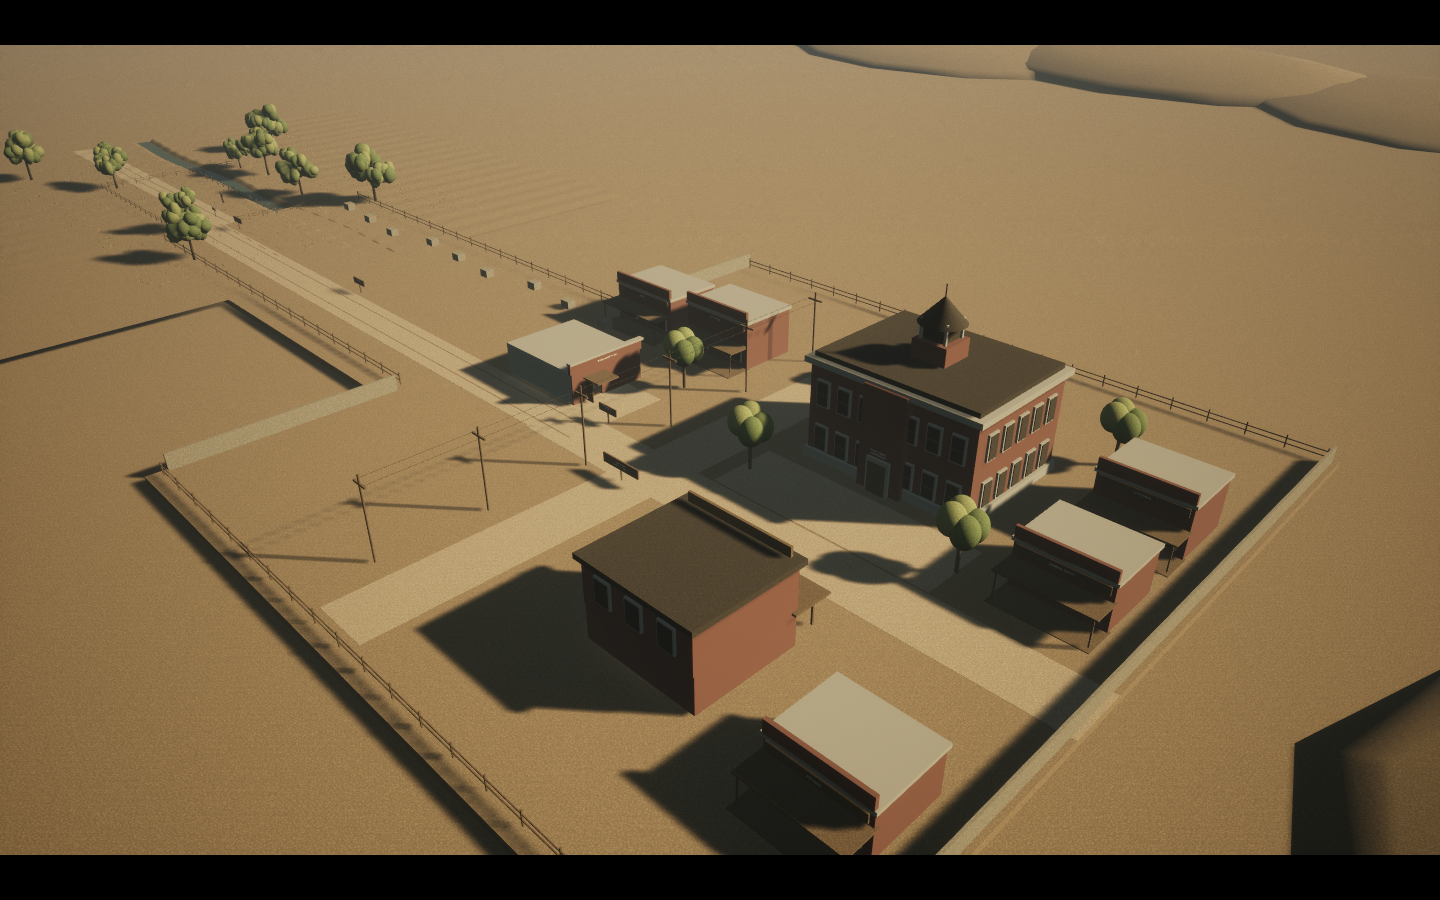
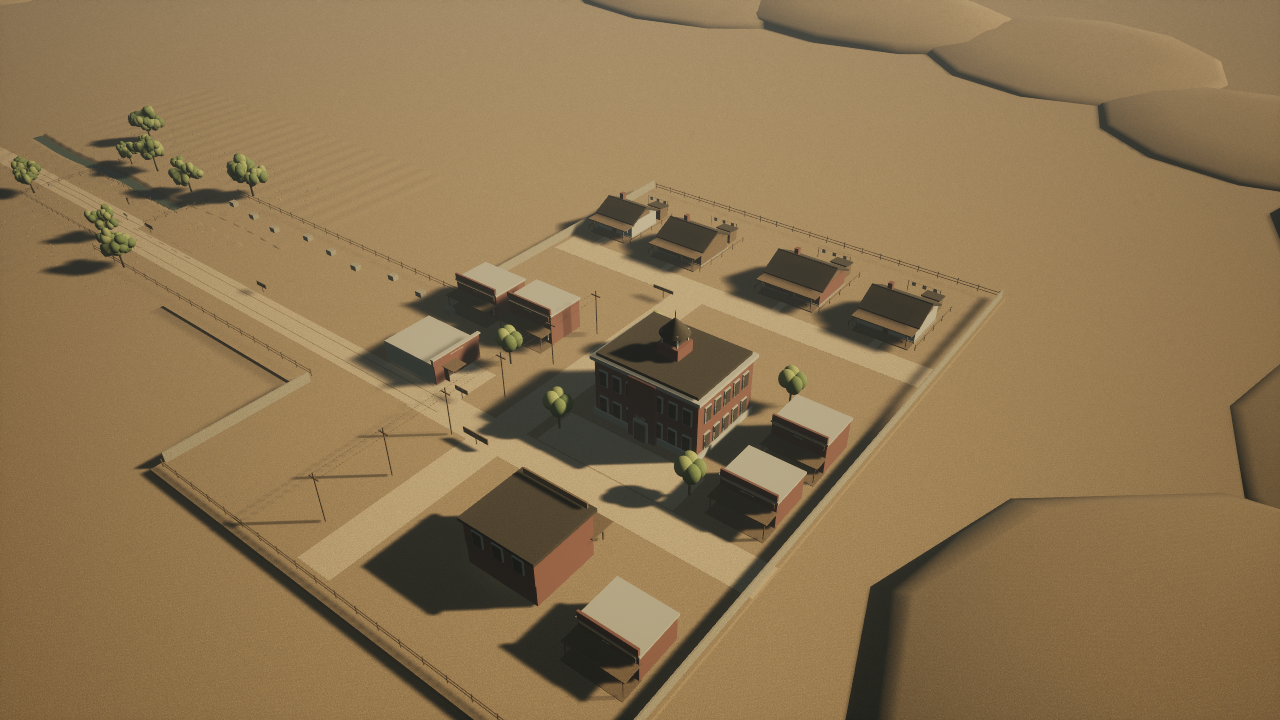
Expand Pecos Bend with a residential lane and four homes

diff --git a/Source/CountyLine/World/CLPecosBend.cpp b/Source/CountyLine/World/CLPecosBend.cpp
@@ -46,10 +46,62 @@ void ACLPecosBend::Store(const FString& Name,const FString& Title,FVector P,floa
     Shape(Name+TEXT("Boardwalk"),P+FVector(0,-490,2),FVector(Width+30,340,8),TEXT("Timber"));
 }
 
+// Small closed homes face the residential lane; porches and yards are walkable.
+void ACLPecosBend::Home(const FString& Name,FVector P,float W,float D,const TCHAR* Material)
+{
+    Shape(Name+TEXT("Foundation"),P+FVector(0,0,18),FVector(W+25,D+25,36),TEXT("Rock"));
+    Shape(Name+TEXT("Walls"),P+FVector(0,0,180),FVector(W,D,300),Material);
+    const float Rise=D*.24f;
+    // Deep roof panels overlap at the ridge. Dark attic walls close the gable ends.
+    Shape(Name+TEXT("Attic"),P+FVector(0,0,330+Rise*.22f),FVector(W-20,D*.50f,Rise*.44f),TEXT("Timber"));
+    for(int32 Side:{-1,1})
+    {
+        auto* Roof=Shape(Name+FString::Printf(TEXT("Roof%d"),Side),P+FVector(0,Side*D*.25f,330+Rise*.5f),FVector(W+100,D*.60f,35),TEXT("Iron"));
+        Roof->SetRelativeRotation(FRotator(0,0,Side*26.f));
+        const FVector Window=P+FVector(Side*W*.29f,-D/2-12,185);
+        Shape(Name+FString::Printf(TEXT("WindowFrame%d"),Side),Window,FVector(155,20,165),TEXT("Plaster"));
+        Shape(Name+FString::Printf(TEXT("WindowGlass%d"),Side),Window+FVector(0,-15,0),FVector(125,8,135),TEXT("Iron"));
+        Shape(Name+FString::Printf(TEXT("WindowBar%d"),Side),Window+FVector(0,-21,0),FVector(7,6,135),TEXT("Timber"),TEXT("Cube"),false);
+        Shape(Name+FString::Printf(TEXT("PorchPost%d"),Side),P+FVector(Side*(W/2-55),-D/2-210,140),FVector(14,14,280),TEXT("Timber"));
+        // Yard side boundaries stop before the public lane.
+        Shape(Name+FString::Printf(TEXT("YardRail%d"),Side),P+FVector(Side*(W/2+100),120,80),FVector(10,D+650,14),TEXT("Timber"));
+        for(int32 I=0;I<5;++I)
+            Shape(Name+FString::Printf(TEXT("YardPost%d_%d"),Side,I),P+FVector(Side*(W/2+100),-D/2-180+I*(D+600)/4,55),FVector(12,12,110),TEXT("Timber"));
+    }
+    Shape(Name+TEXT("DoorFrame"),P+FVector(0,-D/2-10,145),FVector(122,20,245),TEXT("Plaster"));
+    Shape(Name+TEXT("Door"),P+FVector(0,-D/2-24,137),FVector(100,10,222),TEXT("Timber"));
+    Shape(Name+TEXT("Porch"),P+FVector(0,-D/2-125,10),FVector(W,250,20),TEXT("Timber"));
+    Shape(Name+TEXT("PorchRoof"),P+FVector(0,-D/2-120,285),FVector(W+70,310,20),TEXT("Timber"));
+    Shape(Name+TEXT("Chimney"),P+FVector(W*.28f,D*.20f,410),FVector(80,90,390),TEXT("Brick"));
+    Shape(Name+TEXT("FrontPath"),P+FVector(0,-D/2-425,1),FVector(140,600,3),TEXT("RoadDust"),TEXT("Cube"),false);
+    Shape(Name+TEXT("Bench"),P+FVector(-W*.28f,-D/2-105,52),FVector(170,55,18),TEXT("Timber"));
+    for(int32 Side:{-1,1}) Shape(Name+FString::Printf(TEXT("BenchLeg%d"),Side),P+FVector(-W*.28f+Side*65,-D/2-105,25),FVector(14,45,50),TEXT("Timber"));
+    Shape(Name+TEXT("Shed"),P+FVector(-W*.28f,D/2+330,115),FVector(290,250,230),TEXT("Timber"));
+    auto* ShedRoof=Shape(Name+TEXT("ShedRoof"),P+FVector(-W*.28f,D/2+330,250),FVector(330,300,25),TEXT("Iron"));
+    ShedRoof->SetRelativeRotation(FRotator(0,0,8));
+    Shape(Name+TEXT("ShedDoor"),P+FVector(-W*.28f,D/2+199,105),FVector(95,8,200),TEXT("Iron"));
+    Shape(Name+TEXT("GardenBed"),P+FVector(W*.25f,D/2+290,5),FVector(270,260,10),TEXT("Soil"));
+    for(int32 Row=0;Row<3;++Row) for(int32 Plant=0;Plant<4;++Plant)
+        Shape(Name+FString::Printf(TEXT("Garden%d_%d"),Row,Plant),P+FVector(W*.25f-90+Row*90,D/2+200+Plant*60,24),FVector(28,28,35),TEXT("Leaf"),TEXT("Sphere"),false);
+    for(int32 Side:{-1,1}) Shape(Name+FString::Printf(TEXT("ClothesPost%d"),Side),P+FVector(Side*W*.3f,D/2+650,110),FVector(10,10,220),TEXT("Timber"));
+    Shape(Name+TEXT("ClothesLine"),P+FVector(0,D/2+650,205),FVector(W*.6f,2,2),TEXT("Iron"),TEXT("Cube"),false);
+    for(int32 I=0;I<3;++I) Shape(Name+FString::Printf(TEXT("Laundry%d"),I),P+FVector(-W*.2f+I*W*.2f,D/2+650,168),FVector(70,3,72),TEXT("Plaster"),TEXT("Cube"),false);
+}
+
 ACLPecosBend::ACLPecosBend()
 {
     RootComponent=CreateDefaultSubobject<USceneComponent>(TEXT("PecosBend"));
     Shape(TEXT("TownGround"),FVector(-2800,-100,-42),FVector(7800,8200,80),TEXT("Soil"));
+    Shape(TEXT("ResidentialGround"),FVector(-2800,5650,-42),FVector(7800,3700,80),TEXT("Soil"));
+    Shape(TEXT("ResidentialLane"),FVector(-2800,4300,.2),FVector(7500,600,2),TEXT("RoadDust"),TEXT("Cube"),false);
+    Shape(TEXT("CourtNorthExtension"),FVector(-2200,4100,.2),FVector(620,950,2),TEXT("RoadDust"),TEXT("Cube"),false);
+    Home(TEXT("HomeWest"),FVector(-5500,5550,0),1000,900,TEXT("Plaster"));
+    Home(TEXT("HomeBrick"),FVector(-3650,5650,0),1100,950,TEXT("Brick"));
+    Home(TEXT("HomeTimber"),FVector(-1250,5550,0),1000,900,TEXT("Timber"));
+    Home(TEXT("HomeEast"),FVector(400,5600,0),850,800,TEXT("Plaster"));
+    Sign(TEXT("ResidentialSign"),TEXT("HOMES  /  NORTH LANE"),FVector(-1850,3750,180),-90,23);
+    Shape(TEXT("ResidentialSignBoard"),FVector(-1850,3760,180),FVector(430,15,60),TEXT("Timber"));
+    Shape(TEXT("ResidentialSignPost"),FVector(-1850,3760,85),FVector(12,12,170),TEXT("Timber"));
     Shape(TEXT("CourtStreet"),FVector(-2200,-100,.2),FVector(620,7700,2),TEXT("RoadDust"),TEXT("Cube"),false);
     Shape(TEXT("SquareRoad"),FVector(-3650,-800,.2),FVector(6100,600,2),TEXT("RoadDust"),TEXT("Cube"),false);
     Shape(TEXT("CourthouseWalk"),FVector(-3900,-100,1),FVector(2400,760,4),TEXT("RoadDust"),TEXT("Cube"),false);
@@ -161,11 +213,11 @@ ACLPecosBend::ACLPecosBend()
     // Town edge: visible rail barriers around the compact authored footprint.
     for(int32 I=0;I<21;++I) for(int32 Side:{-1,1})
     {
-        const float X=-6600+I*380,Y=Side<0?-4060:3900;
+        const float X=-6600+I*380,Y=Side<0?-4060:7400;
         Shape(FString::Printf(TEXT("TownFencePost%d_%d"),I,Side),FVector(X,Y,70),FVector(12,12,140),TEXT("Timber"));
         if(I<20) for(int32 Rail=0;Rail<2;++Rail) Shape(FString::Printf(TEXT("TownRail%d_%d_%d"),I,Side,Rail),FVector(X+190,Y,50+Rail*55),FVector(380,8,10),TEXT("Timber"));
     }
-    Shape(TEXT("WestTownWall"),FVector(-6640,-80,90),FVector(25,8000,180),TEXT("Rock"));
-    Shape(TEXT("TownEastNorth"),FVector(1060,2750,90),FVector(25,2400,180),TEXT("Rock"));
+    Shape(TEXT("WestTownWall"),FVector(-6640,1670,90),FVector(25,11500,180),TEXT("Rock"));
+    Shape(TEXT("TownEastNorth"),FVector(1060,4475,90),FVector(25,5850,180),TEXT("Rock"));
     Shape(TEXT("TownEastSouth"),FVector(1060,-2800,90),FVector(25,2400,180),TEXT("Rock"));
 }

diff --git a/Source/CountyLine/World/CLPrototypeGameMode.cpp b/Source/CountyLine/World/CLPrototypeGameMode.cpp
@@ -303,6 +303,16 @@ void ACLPrototypeGameMode::RunSmokeTest()
         Check(CLSaveValidation::CopyIfValid(TownLoaded,TownReport,bTownTyped,TownWorld) && TownWorld.IsLocationDiscovered(TEXT("LangHouse")) && TownWorld.IsLocationDiscovered(TEXT("CourtStreet")) && TownWorld.LastSafeLocation==TEXT("LangHouse") && TownReport.IncludedFacts==Carbon,TEXT("Town discoveries and checkpoint survive a memory-only save with the original carbon"));
         WalkRoute(FVector(-4200,-1920,92));WalkRoute(FVector(-4200,-800,92));WalkRoute(FVector(-850,-800,92));WalkRoute(FVector(-850,-180,92));WalkRoute(FVector(-350,-180,92));
         Check(bRouteClear && PC->Case()->World.LastSafeLocation==TEXT("JailOffice"),TEXT("Return walk from Lang's preserves an open route to the jail"));
+        WalkRoute(FVector(-850,-180,92));WalkRoute(FVector(-850,-800,92));WalkRoute(FVector(-2200,-800,92));
+        WalkRoute(FVector(-2200,4300,92));WalkRoute(FVector(-5500,4300,92));WalkRoute(FVector(-5500,4750,92));
+        Check(bRouteClear && PC->Case()->World.LastSafeLocation==TEXT("CourtStreet"),TEXT("Residential lane connects to Court Street and retains its safe checkpoint"));
+        WalkRoute(FVector(-5500,4300,92));WalkRoute(FVector(400,4300,92));WalkRoute(FVector(400,4800,92));
+        WalkRoute(FVector(400,4300,92));WalkRoute(FVector(-2650,4300,92));WalkRoute(FVector(-2650,7000,92));
+        WalkRoute(FVector(-5500,7000,92));WalkRoute(FVector(400,7000,92));WalkRoute(FVector(-2650,7000,92));
+        Check(bRouteClear,TEXT("Residential fronts and rear yard access have grounded collision-clear routes"));
+        WalkRoute(FVector(-2650,4300,92));WalkRoute(FVector(-2200,4300,92));WalkRoute(FVector(-2200,-800,92));
+        WalkRoute(FVector(-850,-800,92));WalkRoute(FVector(-850,-180,92));WalkRoute(FVector(-350,-180,92));
+        Check(bRouteClear && PC->Case()->World.LastSafeLocation==TEXT("JailOffice") && PC->Case()->Report.IncludedFacts==Carbon,TEXT("Residential return preserves the jail route and original carbon"));
     }
     UE_LOG(LogTemp,Display,TEXT("CL_SMOKE_RESULT=%s"),Passed?TEXT("PASS"):TEXT("FAIL"));
     if(Passed && FParse::Param(FCommandLine::Get(),TEXT("CLTownReview")))
@@ -327,11 +337,11 @@ void ACLPrototypeGameMode::CaptureTownReview()
 {
     // Engine-rendered QA artifacts, isolated by the required CLSmokeTest run.
     // These cameras do not alter the player's saved location or normal view.
-    const FVector Positions[]={FVector(-8500,-6200,5000),FVector(-1600,-480,260),FVector(-4340,-1820,190)};
-    const FVector Targets[]={FVector(-2900,-600,450),FVector(-560,0,260),FVector(-4000,-2330,110)};
-    const TCHAR* Names[]={TEXT("TownOverview.png"),TEXT("JailFrontage.png"),TEXT("LangLobby.png")};
+    const FVector Positions[]={FVector(-10000,-7600,8500),FVector(-1600,-480,260),FVector(-4340,-1820,190),FVector(-7600,2800,2500)};
+    const FVector Targets[]={FVector(-2900,1700,250),FVector(-560,0,260),FVector(-4000,-2330,110),FVector(-2700,5650,150)};
+    const TCHAR* Names[]={TEXT("TownOverview.png"),TEXT("JailFrontage.png"),TEXT("LangLobby.png"),TEXT("ResidentialLane.png")};
     const int32 View=TownReviewStep/2;
-    if(View>=3) {GetWorldTimerManager().ClearTimer(TownReviewTimer);FPlatformMisc::RequestExitWithStatus(false,0);return;}
+    if(View>=4) {GetWorldTimerManager().ClearTimer(TownReviewTimer);FPlatformMisc::RequestExitWithStatus(false,0);return;}
     if(TownReviewStep%2==0)
     {
         TownReviewCamera->SetActorLocationAndRotation(Positions[View],(Targets[View]-Positions[View]).Rotation());

diff --git a/Scripts/draw_town_layout.py b/Scripts/draw_town_layout.py
@@ -15,11 +15,11 @@ def numbers(value):
     return tuple(float(x.strip()) for x in value.split(','))
 
 def point(x, y):
-    return 50 + (x + 7000) * .09, 110 + (4200 - y) * .09
+    return 50 + (x + 7000) * .062, 110 + (7800 - y) * .062
 
 def box(x, y, w, h, color, stroke='#6e6048'):
     sx, sy = point(x-w/2, y+h/2)
-    parts.append(f'<rect x="{sx:.1f}" y="{sy:.1f}" width="{w*.09:.1f}" height="{h*.09:.1f}" fill="{color}" stroke="{stroke}"/>')
+    parts.append(f'<rect x="{sx:.1f}" y="{sy:.1f}" width="{w*.062:.1f}" height="{h*.062:.1f}" fill="{color}" stroke="{stroke}"/>')
 
 def shape(name):
     match = re.search(r'Shape\(TEXT\("'+name+r'"\),FVector\(([^)]+)\),FVector\(([^)]+)\)', source)
@@ -27,7 +27,7 @@ def shape(name):
         raise ValueError('Source geometry changed: '+name)
     return numbers(match[1]), numbers(match[2])
 
-for name, color in [('TownGround','#e1d2ae'), ('CourtStreet','#c6b18c'), ('SquareRoad','#c6b18c'), ('CourthouseWalk','#d9c7a3')]:
+for name, color in [('TownGround','#e1d2ae'), ('ResidentialGround','#e1d2ae'), ('ResidentialLane','#c6b18c'), ('CourtNorthExtension','#c6b18c'), ('CourtStreet','#c6b18c'), ('SquareRoad','#c6b18c'), ('CourthouseWalk','#d9c7a3')]:
     p, size = shape(name)
     box(p[0], p[1], size[0], size[1], color)
 
@@ -41,16 +41,20 @@ for title, pos, width in re.findall(r'Store\(TEXT\("[^"]+"\),TEXT\("([^"]+)"\),F
     p = numbers(pos)
     buildings.append((title.title()+' (closed)',p[0],p[1],float(width),700))
 
+for name, pos, width, depth in re.findall(r'Home\(TEXT\("([^" ]+)"\),FVector\(([^)]+)\),([\d.]+),([\d.]+),TEXT', source):
+    p = numbers(pos)
+    buildings.append((name.replace('Home', '')+' home (closed)',p[0],p[1],float(width),float(depth)))
+
 for i, (name,x,y,w,h) in enumerate(buildings,1):
     box(x,y,w,h,'#99735b')
     sx,sy = point(x,y)
     parts.append(f'<circle cx="{sx}" cy="{sy}" r="14" fill="#fff5df"/><text x="{sx}" y="{sy+5}" text-anchor="middle" font-size="16">{i}</text>')
-    parts.append(f'<text x="835" y="{235+i*34}" font-size="17">{i}. {escape(name)}</text>')
+    parts.append(f'<text x="620" y="{235+i*34}" font-size="17">{i}. {escape(name)}</text>')
 
-parts += ['<text x="835" y="150" font-size="23">N ↑</text>',
-          '<text x="835" y="207" font-size="19">EXISTING BUILDINGS</text>',
-          '<text x="835" y="570" font-size="16">Interiors open only where noted</text>',
-          '<text x="835" y="600" font-size="16">and at the jail office.</text>']
+parts += ['<text x="620" y="150" font-size="23">N ↑</text>',
+          '<text x="620" y="207" font-size="19">EXISTING BUILDINGS</text>',
+          '<text x="620" y="710" font-size="16">Interiors open only where noted</text>',
+          '<text x="620" y="740" font-size="16">and at the jail office.</text>']
 sx,sy = point(1000,-800)
 parts += [f'<path d="M {sx-70} {sy} H {sx+35} l -10 -6 m 10 6 l -10 6" fill="none" stroke="#352f25" stroke-width="3"/>',
           f'<text x="{sx-35}" y="{sy+32}" font-size="14">East road → Bend Lateral</text>',

diff --git a/Source/CountyLine/World/CLCountyRoad.cpp b/Source/CountyLine/World/CLCountyRoad.cpp
@@ -60,6 +60,7 @@ FName ACLCountyRoad::LocationAt(FVector P)
     if(P.X>-560 && P.X<560 && P.Y>-450 && P.Y<450) return TEXT("JailOffice");
     if(P.X>-4750 && P.X<-3650 && P.Y>-2690 && P.Y<-1700) return TEXT("LangHouse");
     if(P.X>-6620 && P.X<-1520 && P.Y>-4040 && P.Y<3880) return TEXT("CourtStreet");
+    if(P.X>-6620 && P.X<1040 && P.Y>=3880 && P.Y<7380) return TEXT("CourtStreet"); // Residential extension; same recovery point.
     if(P.X>8220 && P.X<11760 && P.Y>-1200 && P.Y<330) return TEXT("BendLateral");
     if(P.X>-1520 && P.X<=8220 && P.Y>-1480 && P.Y<1630) return TEXT("CountyRoad");
     return NAME_None;

diff --git a/Source/CountyLine/World/CLPecosBend.h b/Source/CountyLine/World/CLPecosBend.h
@@ -15,4 +15,5 @@ private:
     class UStaticMeshComponent* Shape(const FString& Name, FVector Position, FVector Size, const TCHAR* Material, const TCHAR* Mesh=TEXT("Cube"), bool Collision=true);
     void Sign(const FString& Name,const FString& Text,FVector Position,float Yaw,float Size);
     void Store(const FString& Name,const FString& Title,FVector Position,float Width,float Height);
+    void Home(const FString& Name,FVector Position,float Width,float Depth,const TCHAR* Material);
 };

diff --git a/Docs/PECOS_BEND_TOWN.md b/Docs/PECOS_BEND_TOWN.md
@@ -10,6 +10,8 @@ The reference can be recreated as a navigable Unreal environment through authore
 
 ## Playable now
 
+- North Lane extends Court Street north past the courthouse to four modest homes. Explore the lane, porches and rear yards; houses and sheds have closed interiors. Brick, plaster and timber exteriors, pitched roofs, gardens and washing lines establish the first residential block.
+
 - Exit the jail and follow the road west to Court Street and the courthouse square. The road east still leads continuously to Bend Lateral.
 - The brick courthouse, cupola, five storefront exteriors, street poles, trees and signed jail frontage establish the first town silhouette. The courthouse and shops have closed interiors.
 - Lang's boardinghouse is south of the square. Walk through its open doorway into the ground-floor lobby, then inspect the guest register at the counter with E or controller A. B/Escape or the return button restores movement.
@@ -19,7 +21,7 @@ The register notice is prototype-authored text, not a new conversation with Mrs.
 
 ## Construction and scale
 
-`ACLPecosBend` builds the compact town from native mesh components and the project's existing materials. No map regeneration or new external asset dependency is required. Its approximately 80-metre footprint is a layout study, not the final eight-street town or literal county scale. `ACLCountyRoad` remains the initial location/checkpoint registry; town streets open the old western route boundary while outer perimeter barriers retain the slice's limits.
+`ACLPecosBend` builds the compact town from native mesh components and the project's existing materials. No map regeneration or new external asset dependency is required. Its approximately 80 by 115-metre footprint is a layout study, not the final eight-street town or literal county scale. `ACLCountyRoad` remains the initial location/checkpoint registry; town streets open the old western route boundary while outer perimeter barriers retain the slice's limits.
 
 The next art stages are proportion/layout approval, bespoke modular brick and timber building assets, modeled doors/windows/roofs, richer terrain and vegetation, and lighting/weather refinement. The goal is the reference's grounded period look; the current simplified geometry is deliberately an intermediate playable stage.
 
@@ -29,8 +31,8 @@ Runtime checks cover collision-swept travel from the jail to the square, entry i
 
 ## Rendered previews
 
-Verified Unreal captures: [town overview](Verification/PecosBend/TownOverview.png), [jail frontage](Verification/PecosBend/JailFrontage.png), and [Lang's lobby](Verification/PecosBend/LangLobby.png).
+Verified Unreal captures: [town overview](Verification/PecosBend/TownOverview.png), [residential lane](Verification/PecosBend/ResidentialLane.png), [jail frontage](Verification/PecosBend/JailFrontage.png), and [Lang's lobby](Verification/PecosBend/LangLobby.png).
 
-For a fresh capture, create `Saved/Screenshots/TownReview`, then launch the editor executable with the project and `/Game/Maps/L_JailOffice -game -windowed -ResX=1440 -ResY=900 -nosplash -CLSmokeTest -CLTownReview`. After the smoke checks pass, the game takes three fixed-camera screenshots without UI and exits. This development-only mode does not use the player's save slot.
+For a fresh capture, create `Saved/Screenshots/TownReview`, then launch the editor executable with the project and `/Game/Maps/L_JailOffice -game -windowed -ResX=1440 -ResY=900 -nosplash -CLSmokeTest -CLTownReview`. After the smoke checks pass, the game takes four fixed-camera screenshots without UI and exits. This development-only mode does not use the player's save slot.
 
-Final verification on 20 September 2026: editor target build succeeded, all 10 automation suites and 68 runtime smoke assertions passed. See [VERIFICATION.md](VERIFICATION.md) for scope and limitations.
+The initial town pass passed 10 automation suites and 68 runtime smoke assertions. Subsequent jogging and residential work expands that coverage; see [VERIFICATION.md](VERIFICATION.md) for current results and limitations.

diff --git a/Docs/VERIFICATION.md b/Docs/VERIFICATION.md
@@ -127,3 +127,11 @@ The engine-rendered town overview, jail frontage and lobby were visually inspect
 CountyLineEditor Win64 Development built successfully with -NoPCH -NoUBA -NoHotReloadFromIDE. Scripts/Test-Prototype.ps1 exited 0: all 10 required automation suites and 74 runtime smoke assertions passed. Added checks verify Shift/LB mappings, execution through the pawn's jog axis binding, the 360 cm/s cap, non-stacking combined controls, release restoring 180 cm/s, locomotion blend speed coverage, and blocked jogging/zero velocity while the Book is open. Existing route, case and save checks remain green.
 
 Verification was headless and uses simulated input; no physical-controller, visual jog-animation or packaged-build playtest was performed. No player save was read or written. The controller-disconnect system freeze is outside this change.
+
+## First residential block - 20 September 2026
+
+The editor target built successfully with -NoPCH -NoUBA -NoHotReloadFromIDE. Scripts/Test-Prototype.ps1 exited 0 after a rerun: all 10 required automation suites and 77 runtime checks passed. The initial automation log ended before the final test completion record; the runner correctly rejected that incomplete result. A shared engine build lock delayed subsequent checks while Claude's separate worktree compiled; its process was left untouched.
+
+New collision-swept runtime routes cover the northward Court Street extension, house-front approaches, access between the plots to the rear yards, and the return to the jail. They verify grounded movement, the unchanged Court Street recovery point, and preservation of the original carbon. No existing checkpoint coordinates or save ids changed. Claude-owned automation test files and Test-Prototype.ps1 were not edited.
+
+The rendered review exposed inverted roof slopes, which were corrected and rebuilt. The final offscreen run with -Multiprocess -RenderOffscreen -CLSmokeTest -CLTownReview passed all 77 checks and produced the reviewed residential and overview images in Docs/Verification/PecosBend. The map generator produced 12 building markers and its SVG parsed successfully. No player save was used. These remain prototype exteriors with accessible yards and porches, not occupied homes or accessible interiors. Physical-controller and packaged-build testing were not performed in this pass.

diff --git a/Docs/WORLD_GEOGRAPHY.md b/Docs/WORLD_GEOGRAPHY.md
@@ -20,6 +20,10 @@ See [the current footprint map](Maps/PecosBend-layout.svg). Solid footprints rep
 | Court Street | -2200, -100 | North/south walking spine |
 | Square crossroad | -3650, -800 | Connects square, jail approach and east road |
 | Bend Lateral | Approximately 10000, 0 | Existing investigation area east of town |
+| North Lane | -2800, 4300 | Residential lane linked to Court Street |
+| Residential homes | X -5500, -3650, -1250, 400; Y 5550–5650 | Four exterior-only homes with porches and yards |
+
+The first residential block extends the northern town boundary to Y 7400. It is treated as part of Court Street for discovery and uses the existing Court Street recovery point; no save ids or existing checkpoints moved. Rear yards have sheds, vegetable plots and washing lines. Residents and accessible house interiors remain future work.
 
 The five existing shops retain their prototype identities for now. Their eventual business names and architecture can change as the town expands. Do not silently treat the existing repair shop as an implemented hotel or livery.
 
